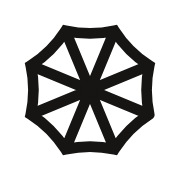
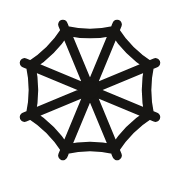
brand: the web gets a knotted hub, and the rail gets its air back

diff --git a/apps/studio/src/app.tsx b/apps/studio/src/app.tsx
@@ -399,7 +399,7 @@ export default function App() {
                 <Web size={24} class="h-6 w-6 shrink-0" />
               </A>
               <RailTip label={MARK.label} top="top-5" />
-              <ul class="flow-list m-0 flex w-full shrink-0 flex-col items-center gap-1">
+              <ul class="flow-list m-0 flex w-full shrink-0 flex-col items-center gap-2">
                 <For each={CONCERNS}>
                   {(route) => (
                     <li class="m-0 w-full">
@@ -421,7 +421,7 @@ export default function App() {
                   )}
                 </For>
               </ul>
-              <ul class="flow-list m-0 mt-auto flex w-full shrink-0 flex-col items-center gap-1 border-t border-border pt-2">
+              <ul class="flow-list m-0 mt-auto flex w-full shrink-0 flex-col items-center gap-2 border-t border-border pt-2">
                 <li class="m-0 w-full">
                   <button
                     type="button"

diff --git a/packages/kit/src/web.tsx b/packages/kit/src/web.tsx
@@ -27,14 +27,14 @@ const WEB_SMALL =
 export function Web(
   props: { class?: string; title?: string; size?: number },
 ): JSX.Element {
-  return <WebMark path={WEB} stroke={0.7} hub={1} {...props} />;
+  return <WebMark path={WEB} stroke={0.7} hub={1.9} {...props} />;
 }
 
 /** The web, thinned for a favicon. */
 export function WebGlyph(
   props: { class?: string; title?: string },
 ): JSX.Element {
-  return <WebMark path={WEB_SMALL} stroke={1.9} hub={1.5} {...props} />;
+  return <WebMark path={WEB_SMALL} stroke={1.7} hub={1.6} {...props} />;
 }
 
 function WebMark(

diff --git a/apps/studio/src/lib/routes.ts b/apps/studio/src/lib/routes.ts
@@ -51,7 +51,7 @@ export const ROUTES = [
   {
     path: "/icons",
     label: "Icons",
-    icon: "i-lucide-grid-2x2",
+    icon: "i-lucide-shapes",
     rail: "concern",
     owns: [["icon"]],
   },
@@ -72,7 +72,7 @@ export const ROUTES = [
   {
     path: "/style",
     label: "Style",
-    icon: "i-lucide-sliders-horizontal",
+    icon: "i-lucide-contrast",
     rail: "concern",
     owns: [["radius"], ["shadow"], ["z-index"], ["opacity"], ["border"], [
       "focus",
